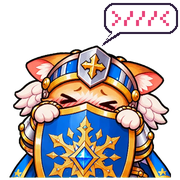
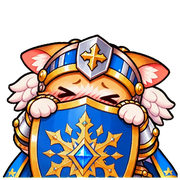
Remove the >///< bubble from the Shy emoji
The bubble did not suit the look; the character now fills the width
instead. 180x180, 16 frames, 4 s, 216 KB.

Claude-Session: https://claude.ai/code/session_01CqN5TM8CtnKZx6KMXb1z93

diff --git a/line-stickers/animated-emoji/10-shy/make_shy.py b/line-stickers/animated-emoji/10-shy/make_shy.py
@@ -1,42 +1,19 @@
-"""Shy >///< emoji: Kling wiggle loop + pixel-art >///< speech bubble."""
+"""Shy >///< emoji: Kling wiggle loop, no overlay."""
 import sys, os
-from PIL import Image, ImageDraw
+from PIL import Image
 CUT, OUT = sys.argv[1], sys.argv[2]            # folder of 16 green-removed frames, output folder
 N, W = 16, 540                                  # frames, working canvas (3x of 180)
-INK, WHITE, PINK = (42, 26, 58, 255), (255, 255, 255, 255), (232, 69, 122, 255)
 frames = [Image.open(f"{CUT}/{k:02d}.png") for k in range(N)]
 box = (20, 149, 940, 902)                       # union bbox; the bottom edge is the flat cut
-s = 0.53
+s = (W - 12) / (box[2] - box[0])               # fill the width
 cw, ch = round((box[2]-box[0])*s), round((box[3]-box[1])*s)
 cx, cy = (W-cw)//2, W-6-ch                      # centered, flat cut on the bottom edge
 
-GLYPH = {'>': ["100", "010", "001", "010", "100"],
-         '<': ["001", "010", "100", "010", "001"],
-         '/': ["001", "001", "010", "100", "100"]}
-
-def bubble(k):
-    """Speech bubble on the 180px grid, scaled up 3x so it stays crisp."""
-    lo = Image.new('RGBA', (W//3, W//3), (0, 0, 0, 0)); g = ImageDraw.Draw(lo)
-    dy = -1 if (k // 4) % 2 else 0              # tiny bob
-    x0, y0, x1, y1 = 104, 3+dy, 177, 33+dy
-    g.polygon([(112, y1-2), (124, y1-2), (102, y1+12)], fill=INK)                  # tail
-    g.rounded_rectangle([x0, y0, x1, y1], radius=10, fill=INK)
-    g.rounded_rectangle([x0+2, y0+2, x1-2, y1-2], radius=8, fill=WHITE)
-    g.polygon([(114, y1-3), (121, y1-3), (106, y1+7)], fill=WHITE)
-    px = 3                                       # glyph pixel size
-    tx, ty = x0 + (x1-x0 - (5*3*px + 4*3))//2, y0 + (y1-y0 - 5*px)//2 + 1
-    for ch_ in ">///<":
-        for r, row in enumerate(GLYPH[ch_]):
-            for c, bit in enumerate(row):
-                if bit == '1': g.rectangle([tx+c*px, ty+r*px, tx+c*px+px-1, ty+r*px+px-1], fill=PINK)
-        tx += 3*px + 3
-    return lo.resize((W, W), Image.NEAREST)
-
 out = []
-for k, f in enumerate(frames):
+for f in frames:
     c = Image.new('RGBA', (W, W), (0, 0, 0, 0))
     m = f.crop(box).convert('RGBa').resize((cw, ch), Image.LANCZOS).convert('RGBA')
-    c.alpha_composite(m, (cx, cy)); c.alpha_composite(bubble(k)); out.append(c)
+    c.alpha_composite(m, (cx, cy)); out.append(c)
 
 def save(frs, path, durs, loop):
     sz = frs[0].width
